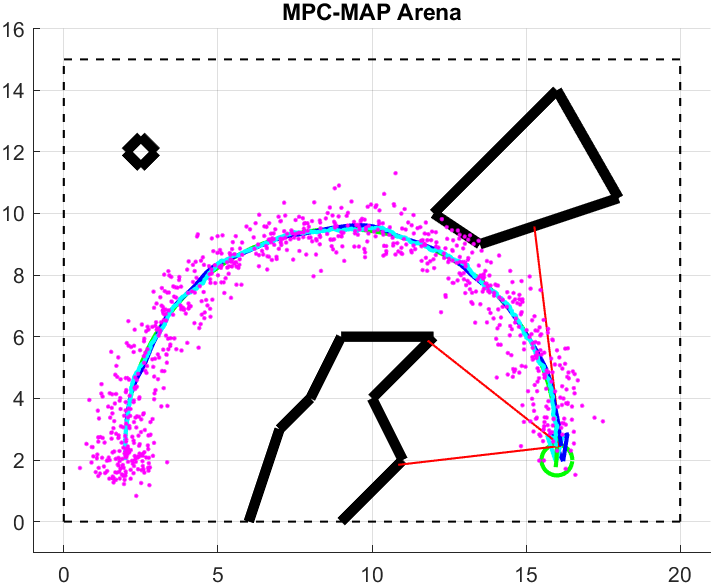
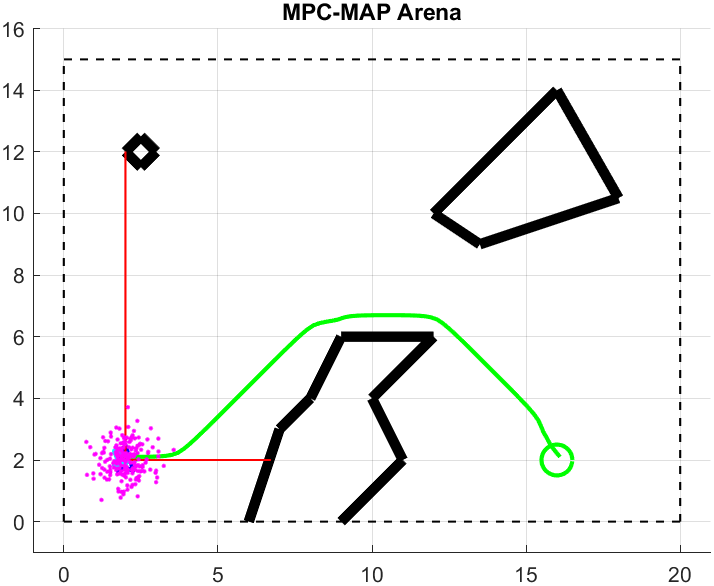
Week 6 done

diff --git a/algorithms/path_planning/astar.m b/algorithms/path_planning/astar.m
@@ -1,7 +1,118 @@
 function [path] = astar(read_only_vars, public_vars)
-%ASTAR Summary of this function goes here
+% x, y - horizontal & vertical world coordinates
+% i, j - horizontal & vertical grid coordinates
+% 
+% (vertical_grid, horizontal_grid) = world2Grid(horizontal_world, vertical_world)
+% (horizontal_world, vertical_world) = grid2World(vertical_grid, horizontal_grid)
+
+occupancy_grid_dim = size(read_only_vars.discrete_map.map);
+occupancy_grid = read_only_vars.discrete_map.map;
+ds = read_only_vars.map.discretization_step;
+
+radius_px = ceil(read_only_vars.agent_drive.interwheel_dist / ds * 1.5);
+occupancy_grid = dilate_map(occupancy_grid, radius_px);
+
+start_x = public_vars.estimated_pose(1);
+start_y = public_vars.estimated_pose(2);
+
+[start_j, start_i] = world2Grid(start_x, start_y, read_only_vars);
+
+goal_x = read_only_vars.map.goal(1);
+goal_y = read_only_vars.map.goal(2);
+
+goal_i = read_only_vars.discrete_map.goal(1); 
+goal_j = read_only_vars.discrete_map.goal(2);
+
+closed_list = false(occupancy_grid_dim);
+
+g_score = inf(occupancy_grid_dim);
+h_score = inf(occupancy_grid_dim);
+f_score = inf(occupancy_grid_dim);
+parent = zeros([occupancy_grid_dim, 2]);
+
+g_score(start_j, start_i) = 0;
+h_score(start_j, start_i) = hypot(goal_y - start_y, goal_x - start_x);
+f_score(start_j, start_i) = g_score(start_j, start_i) + h_score(start_j, start_i);
+
+open_list = [start_j, start_i, f_score(start_j, start_i)];
 
 path = [];
+
+while ~isempty(open_list)
+    [~, idx] = min(open_list(:, 3));
+    curr_node = open_list(idx, :);
+    open_list(idx, :) = [];
+
+    curr_j = curr_node(1);
+    curr_i = curr_node(2);
+
+    if curr_j == goal_j && curr_i == goal_i
+        tmp_j = curr_j;
+        tmp_i = curr_i;
+
+        while tmp_j ~= 0 && tmp_i ~= 0
+            [wx, wy] = grid2World(tmp_j, tmp_i, read_only_vars);
+            path = [wx, wy; path];
+            pj = parent(tmp_j, tmp_i, 1);
+            pi = parent(tmp_j, tmp_i, 2);
+            
+            tmp_j = pj;
+            tmp_i = pi;
+        end
+
+        return;
+    end
+
+    closed_list(curr_j, curr_i) = true;
+
+    for di = -1:1
+        for dj = -1:1
+            if di == 0 && dj == 0
+                continue;
+            end
+            
+            nj = curr_j + dj;
+            ni = curr_i + di;
+            
+            out_of_map = nj < 1 || nj > occupancy_grid_dim(1) || ni < 1 || ni > occupancy_grid_dim(2); 
+            if out_of_map
+                continue;
+            end
+
+            is_obstacle = (occupancy_grid(nj, ni) ~= 0);
+
+            if is_obstacle || closed_list(nj, ni)
+                continue;
+            end
+            
+            dist = hypot(di, dj) * ds;
+            tentative_g = g_score(curr_j, curr_i) + dist;
+
+            if tentative_g < g_score(nj, ni)
+                g_score(nj, ni) = tentative_g;
+
+                [nx, ny] = grid2World(nj, ni, read_only_vars);
+                h_val = hypot(goal_x - nx, goal_y - ny);
+
+                f_score(nj, ni) = g_score(nj, ni) + h_val;
+                parent(nj, ni, :) = [curr_j, curr_i];
+
+                in_open = any(open_list(:, 1) == nj & open_list(:, 2) == ni);
+
+                if ~in_open
+                    open_list = [open_list; nj, ni, f_score(nj, ni)];
+                else
+                    idx_in_open = (open_list(:, 1) == nj & open_list(:, 2) == ni);
+                    open_list(idx_in_open, 3) = f_score(nj, ni);
+                end
+            end
+        end
+    end
+end
+
+if isempty(path)
+    disp("Path not found.");
+end
 
 end
 

diff --git a/algorithms/student_workspace.m b/algorithms/student_workspace.m
@@ -2,41 +2,39 @@ function [public_vars] = student_workspace(read_only_vars,public_vars)
 %STUDENT_WORKSPACE Summary of this function goes here
 
 if read_only_vars.counter == 1
-    % Trajectory between the start pose and the goal location
-    path_points = 200;
-    x0 = 9;
-    y0 = 2.5;
-    R = 7;
-    omeg = linspace(pi, -pi/30, path_points);
-    x = x0 + R * cos(omeg);
-    y = y0 + R * sin(omeg);
-    circle = [x', y'];
-    
     % Motion planning parameters
-    public_vars.path = circle;
     public_vars.look_ahead_dist = 0.5;
     public_vars.target_point = 1;  
     public_vars.slow_down_k = 0.5;
     public_vars.max_w = 1.0; 
-    public_vars.finish_treshold = 1; 
+    public_vars.finish_treshold = 0.1;
+
+    % Path smoothing parameters
+    public_vars.tolerance = 0.01;
+    public_vars.weight_data = 0.25;
+    public_vars.weight_smooth = 0.5;
 end
 
 %  Initialization procedure
 if read_only_vars.counter <= 100
     public_vars.desired_speed = 0.0;  
 elseif (read_only_vars.counter == 101)
-    public_vars.desired_speed = 0.3;
+    public_vars.desired_speed = 0.6;
+
     public_vars = init_kalman_filter(read_only_vars, public_vars);
+
+    public_vars.estimated_pose = estimate_pose(public_vars); 
+    public_vars.path = plan_path(read_only_vars, public_vars);
 else 
     % Update Kalman filter
     [public_vars.mu, public_vars.sigma] = update_kalman_filter(read_only_vars, public_vars);
 
     % Estimate current robot position
-    public_vars.estimated_pose = estimate_pose(public_vars); % (x,y,theta)
+    public_vars.estimated_pose = estimate_pose(public_vars); 
 
     % Plan next motion command
     public_vars = plan_motion(read_only_vars, public_vars);
-
 end
+
 end
 

diff --git a/algorithms/path_planning/smooth_path.m b/algorithms/path_planning/smooth_path.m
@@ -1,7 +1,25 @@
-function [new_path] = smooth_path(old_path)
-%SMOOTH_PATH Summary of this function goes here
+function new_path = smooth_path(old_path, public_vars)
+    new_path = old_path; 
+    
+    tolerance = public_vars.tolerance;
+    alpha = public_vars.weight_data;
+    beta = public_vars.weight_smooth;
 
-new_path = old_path;
+    change = tolerance;
+    
+    while change >= tolerance
+        change = 0.0;
 
+        for i = 2:size(old_path, 1) - 1
+            for j = 1:size(old_path, 2)
+                
+                old_val = new_path(i, j);
+              
+                new_path(i, j) = new_path(i, j) + alpha * (old_path(i, j) - new_path(i, j)) + ...
+                    beta * (new_path(i-1, j) + new_path(i+1, j) - 2.0 * new_path(i, j));
+                
+                change = change + abs(old_val - new_path(i, j));
+            end
+        end
+    end
 end
-

diff --git a/algorithms/path_planning/dilate_map.m b/algorithms/path_planning/dilate_map.m
@@ -1,0 +1,24 @@
+function dilated_map = dilate_map(map, radius_px)
+[rows, cols] = size(map);
+
+dilated_map = map;
+
+for j = 1:rows
+    for i = 1:cols
+        if map(j, i) ~= 0
+            for dj = -radius_px:radius_px
+                for di = -radius_px:radius_px
+                    if hypot(dj, di) <= radius_px
+                        nj = j + dj;
+                        ni = i + di;
+
+                        if nj >= 1 && nj <= rows && ni >= 1 && ni <= cols
+                            dilated_map(nj, ni) = 1;
+                        end
+                    end
+                end
+            end
+        end
+    end
+end
+end

diff --git a/algorithms/path_planning/plan_path.m b/algorithms/path_planning/plan_path.m
@@ -4,15 +4,10 @@ function [path] = plan_path(read_only_vars, public_vars)
 planning_required = 1;
 
 if planning_required
-    
     path = astar(read_only_vars, public_vars);
-    
-    path = smooth_path(path);
-    
+    path = smooth_path(path, public_vars);
 else
-    
     path = public_vars.path;
-    
 end
 
 end

diff --git a/algorithms/path_planning/world2Grid.m b/algorithms/path_planning/world2Grid.m
@@ -1,0 +1,8 @@
+function [j, i] = world2Grid(x, y, read_only_vars)
+    min_x = read_only_vars.map.limits(1);
+    min_y = read_only_vars.map.limits(2);
+    res = read_only_vars.map.discretization_step;
+
+    j = floor((y - min_y) / res) + 1;  % y → row
+    i = floor((x - min_x) / res) + 1;  % x → col
+end

diff --git a/algorithms/path_planning/grid2World.m b/algorithms/path_planning/grid2World.m
@@ -1,0 +1,8 @@
+function [x, y] = grid2World(j, i, read_only_vars)
+    min_x = read_only_vars.map.limits(1);
+    min_y = read_only_vars.map.limits(2);
+    res = read_only_vars.map.discretization_step;
+
+    x = min_x + (i - 0.5) * res;  % col → x
+    y = min_y + (j - 0.5) * res;  % row → y
+end

diff --git a/main.m b/main.m
@@ -11,6 +11,7 @@ environment_setup;
 check_toolboxes;
 
 % Call setup procedure
+
 setup;
 
 % Default public variables

diff --git a/reports/week_6.md b/reports/week_6.md
@@ -1,0 +1,25 @@
+**Author:**         Alikhan Nurkhat (242251)
+
+**Date:**           27.04.2026
+
+#### Task 1
+<p align="center">
+<img src="plots/task_1.png" width="400"/>  
+</p>
+I implemented the A-star algorithm, which is an informed search method. It was chosen because it ensures optimality (finding the shortest path) and completeness (finding a solution if it exists). I used the Euclidean distance as the heuristic function. The implementation successfully finds the optimal path in the provided environment. At this stage, the planner treats the robot as a point robot with zero radius, searching for the shortest path strictly through free grid cells. Since the algorithm does not account for the physical dimensions of the platform, the resulting trajectory runs immediately adjacent to obstacle boundaries or intersects them at corners, which would lead to collisions in a real-world scenario.
+
+#### Task 2
+<p align="center">
+<img src="plots/task_2.png" width="400"/>  
+</p>
+I applied a morphological dilation operation to the occupancy grid using a circular structuring element with a radius of 1.5 * wheel_base for extra safety at high velocity. This process effectively inflates the obstacles, ensuring that even if the point-robot path touches the new boundary, the physical robot maintains the required clearance. The call to the dilate_map function is made directly inside the astar function during the initialization phase.
+
+#### Task 3 
+<p align="center">
+<img src="plots/task_3.png" width="400"/> 
+</p>
+ I implemented the Iterative Gradient Descent smoother. The algorithm optimizes the position of path nodes by balancing two competing forces: Data weight, which keeps the path close to the original A* result, and Smoothness weight, which minimizes the curvature. These parameters were configured in student_workspace.m 
+ Through testing, I found that data weight = 0.25 and smoothness weight = 0.5 provide a good balance for this environment.
+
+#### Note
+Due to the focus on path planning, localization was implemented using a Kalman Filter and GNSS, making the solution specific to the outdoor_1.txt map. LiDAR and Particle Filter integration were omitted. During the first 100 stationary samples, the robot gathers GNSS statistics. On sample 101, the system initializes the filter, estimates the starting pose, and computes the path to the goal. From that point onward, the robot follows the generated trajectory while iteratively updating its position.
